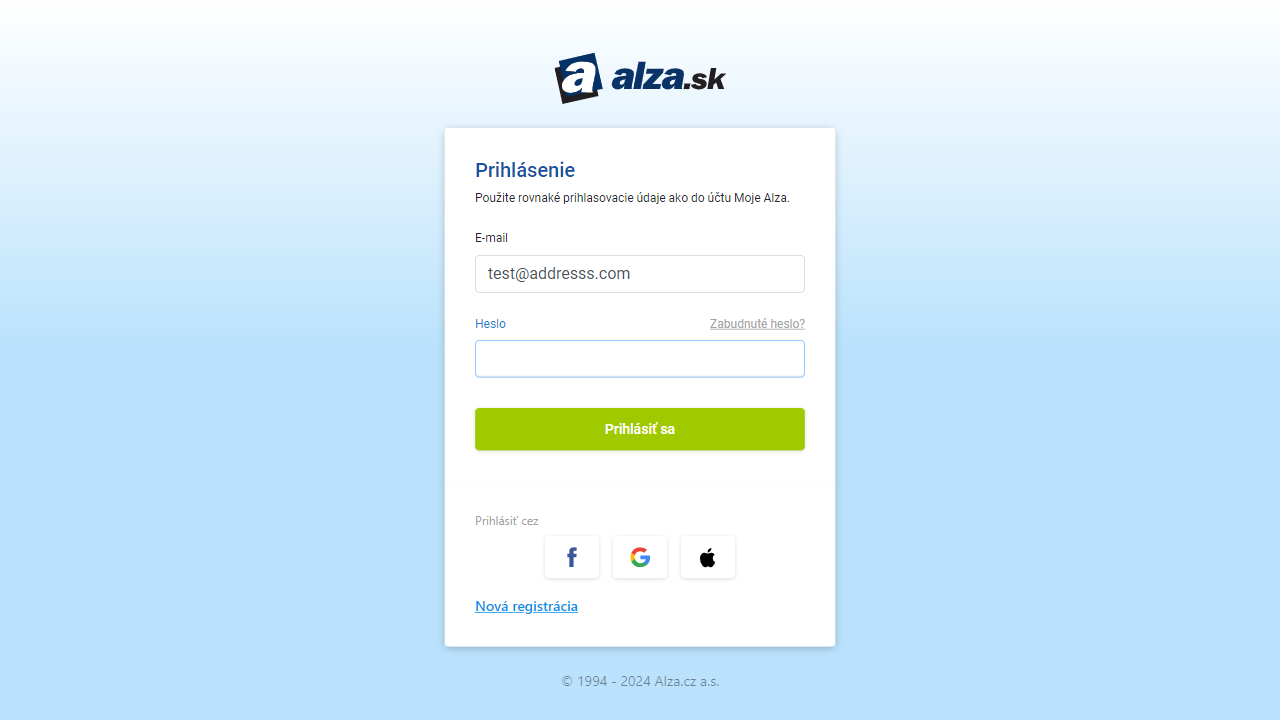
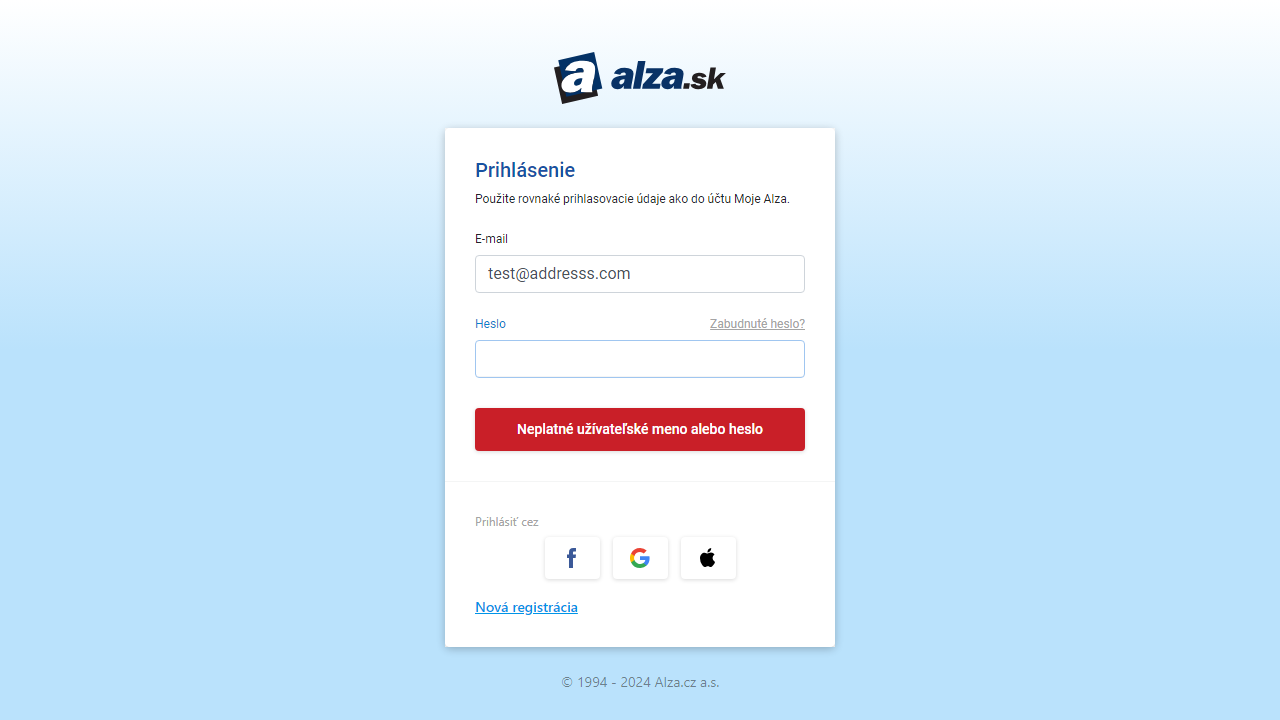
made sample snippet

diff --git a/tests/alza/pages/login.ts b/tests/alza/pages/login.ts
@@ -1,84 +1,86 @@
 import { Locator, Page, expect } from "@playwright/test";
 
 export class LoginPage {
-    page: Page;
-    loginLinkWait: Locator;
-    loginLink: Locator;
-    title: Locator;
-    userName: Locator;
-    password: Locator;
-    submit: Locator;
-    mojaAlza: Locator;
-    logout: Locator;
-    textBadLogin: Locator;
+  page: Page;
+  loginLinkWait: Locator;
+  loginLink: Locator;
+  title: Locator;
+  userName: Locator;
+  password: Locator;
+  submit: Locator;
+  mojaAlza: Locator;
+  logout: Locator;
+  textBadLogin: Locator;
 
-    constructor(page: Page) {
-        this.page = page;
-        this.loginLinkWait = page.getByText("Prihlásiť sa");
-        this.loginLink = page.getByText("Prihlásiť sa");
-        this.title = page.getByRole("heading", {name: "Prihlásenie"});
-        this.userName = page.locator("#userName");
-        this.password = page.locator("#password");
-        this.submit = page.getByText("Prihlásiť sa");
-        this.mojaAlza = page.getByText('Moja Alza');
-        this.logout = page.getByText("Odhlásiť sa");
-        this.textBadLogin = page.getByText("Nesprávne užívateľské meno alebo heslo");
-    }
-    
-    async gotoPage () {
-        await this.page.goto("https://www.alza.sk/");
-    }
+  constructor(page: Page) {
+    this.page = page;
+    this.loginLinkWait = page.getByText("Prihlásiť sa");
+    this.loginLink = page.getByText("Prihlásiť sa");
+    this.title = page.getByRole("heading", { name: "Prihlásenie" });
+    this.userName = page.locator("#userName");
+    this.password = page.locator("#password");
+    this.submit = page.getByText("Prihlásiť sa");
+    this.mojaAlza = page.getByText("Moja Alza");
+    this.logout = page.getByText("Odhlásiť sa");
+    this.textBadLogin = page.getByText(
+      "Nesprávne užívateľské meno alebo heslo"
+    );
+  }
 
-    async clickLoginLink () {
-        await this.loginLink.click();
-    }  
+  async gotoPage() {
+    await this.page.goto("https://www.alza.sk/");
+  }
 
-    async titleText () {
-        await expect (this.title).toBeVisible();
-        await this.page.screenshot({ path: 'loginText.png' });
-    }
+  async clickLoginLink() {
+    await this.loginLink.click();
+  }
 
-    async logoutText () {
-        await expect (this.logout).toBeVisible();
-    }  
+  async titleText() {
+    await expect(this.title).toBeVisible();
+    await this.page.screenshot({ path: "loginText.png" });
+  }
 
-    async clickLogout () {
-        await this.logout.click();
-    }  
+  async logoutText() {
+    await expect(this.logout).toBeVisible();
+  }
 
-    async emailOKPassOK () {
-        await expect (this.title).toBeVisible();
-        await this.userName.fill("test@address.com");
-        await this.password.fill("6SNx4WB87C3tXF");
-        await this.submit.click();
-    }
+  async clickLogout() {
+    await this.logout.click();
+  }
 
-    async emailOKPassNO () {
-        await expect (this.title).toBeVisible();
-        await this.userName.fill("test@address.com");
-        await this.password.fill("badpassword");
-        await this.submit.click();
-    }
+  async emailOKPassOK() {
+    await expect(this.title).toBeVisible();
+    await this.userName.fill("test@address.com");
+    await this.password.fill("6SNx4WB87C3tXF");
+    await this.submit.click();
+  }
 
-    async emailNOPassOK () {
-        await expect (this.title).toBeVisible();
-        await this.userName.fill("test@addresss.com");
-        await this.password.fill("6SNx4WB87C3tXF");
-        await this.submit.click();
-    }
+  async emailOKPassNO() {
+    await expect(this.title).toBeVisible();
+    await this.userName.fill("test@address.com");
+    await this.password.fill("badpassword");
+    await this.submit.click();
+  }
 
-    async emailNOPassNO () {
-        await expect (this.title).toBeVisible();
-        await this.userName.fill("test@addresss.com");
-        await this.password.fill("badpassword");
-        await this.submit.click();
-    }
+  async emailNOPassOK() {
+    await expect(this.title).toBeVisible();
+    await this.userName.fill("test@addresss.com");
+    await this.password.fill("6SNx4WB87C3tXF");
+    await this.submit.click();
+  }
 
-    async account () {
-        await this.mojaAlza.click();
-    }
+  async emailNOPassNO() {
+    await expect(this.title).toBeVisible();
+    await this.userName.fill("test@addresss.com");
+    await this.password.fill("badpassword");
+    await this.submit.click();
+  }
 
-    async errorMessage () {
-        await expect (this.textBadLogin).toBeVisible();
-    }
+  async account() {
+    await this.mojaAlza.click();
+  }
+
+  async errorMessage() {
+    await expect(this.textBadLogin).toBeVisible();
+  }
 }

diff --git a/tests/alza/snippet.spec.ts b/tests/alza/snippet.spec.ts
@@ -1,0 +1,7 @@
+
+import { test, expect } from '@playwright/test';
+
+  test('linkedin login', async ({ page }) => {
+  await page.goto('https://www.linkedin.com/feed/');
+  const login = await page.title();
+});

diff --git a/tests/alza/login.spec.ts b/tests/alza/login.spec.ts
@@ -124,5 +124,6 @@ test("Login NO - Email N, Password N @ENPN", async ({page}) => {
         await login.titleText();
     })
 
-})
+
 });
+})
